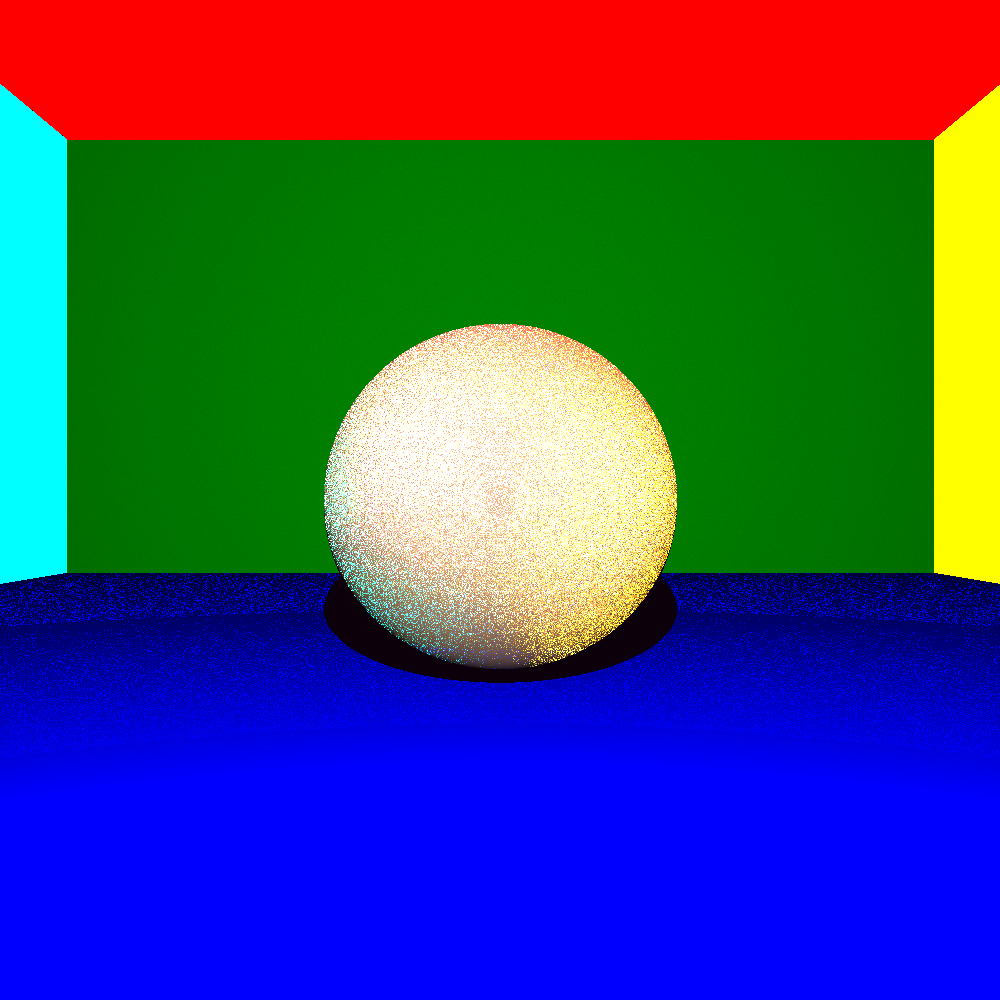
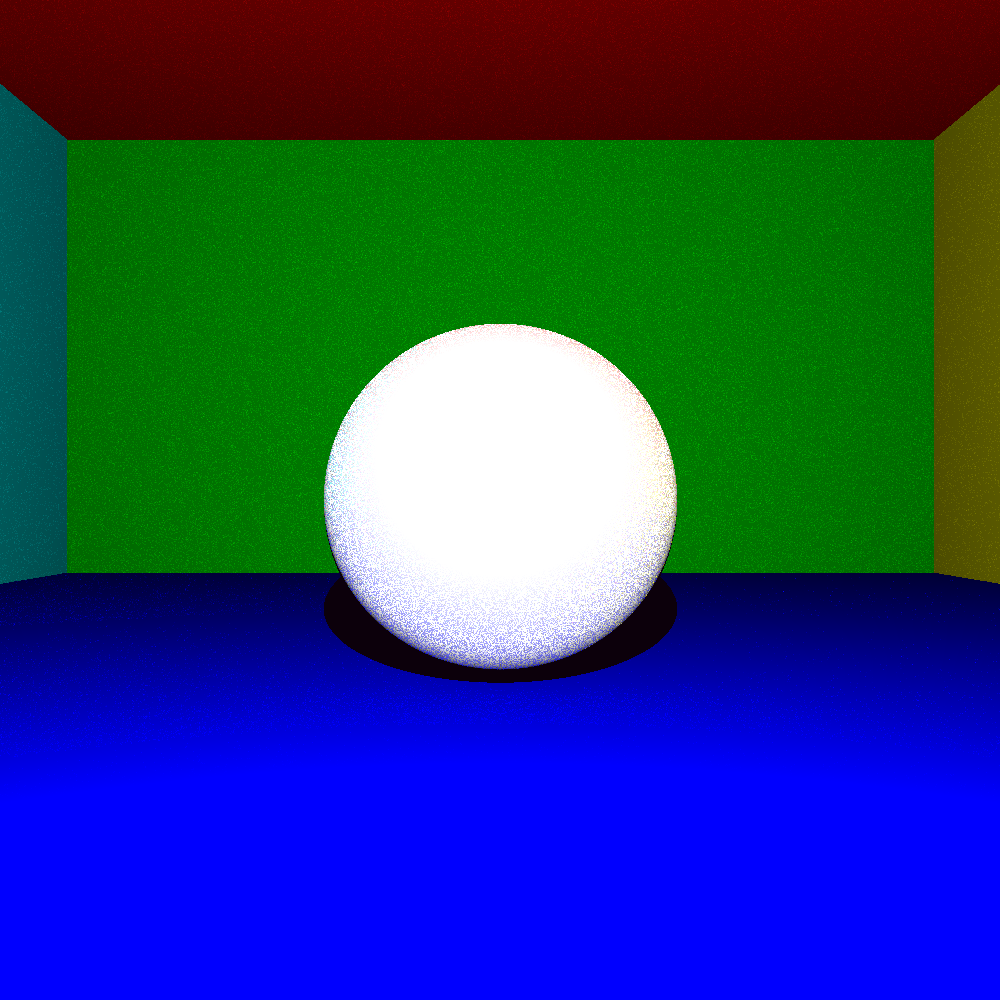
Indirect lighting

Changed region(s): [[0.0, 0.0, 1.0, 0.775]]

diff --git a/src/main.rs b/src/main.rs
@@ -15,16 +15,15 @@ use vect::*;
 const EPSILON: f64 = 0.0001;
 const IMAGE_WIDTH: u32 = 1000;
 const IMAGE_HEIGTH: u32 = 1000;
-const NRAYS: u32 = 100;
+const NRAYS: u32 = 2;
 const DEPTH: u8 = 4;
-const N_THREADS: usize = 8;
+const N_THREADS: usize = 4;
 
 fn main() {
     let cam = camera::new(
         Vect(0f64, 2f64, 0f64), // Position
         Vect(0f64, 0f64, 1f64), // Direction
         Vect(0f64, 1f64, 0f64), // "Up" Direction
-        0.8f64,                 // In-world distance from position to screen
         PI / 3f64,              // Viewing angle
     );
     let mut scene: Scene = (Vec::new(), Vec::new());
@@ -32,50 +31,43 @@ fn main() {
     scene.0.push(Box::new(sphere::Sphere {
         pos: Vect(0f64, 2f64, 10f64),
         radius: 2f64,
-        material: Material::Lambertian,
-        albedo: Vect(0.4, 0.25, 0.15),
+        material: Material::Lambertian(Vect(1.0, 1.0, 1.0)),
     }));
     //Floor
     scene.0.push(Box::new(plane::Plane {
         point: Vect(0.0, 0f64, 0.0),
         normal: Vect(0f64, 1f64, 0f64).normalise(),
-        albedo: Vect(0f64, 0f64, 1f64),
-        material: Material::Lambertian,
+        material: Material::Lambertian(Vect(0f64, 0f64, 1f64)),
     }));
     //Back wall
     scene.0.push(Box::new(plane::Plane {
         point: Vect(0.0, 0f64, 24f64),
         normal: Vect(0f64, 0f64, -1f64).normalise(),
-        albedo: Vect(0f64, 1f64, 0f64),
-        material: Material::Lambertian,
+        material: Material::Lambertian(Vect(0f64, 1f64, 0f64)),
     }));
     //Ceiling
     scene.0.push(Box::new(plane::Plane {
         point: Vect(0.0, 12f64, 0f64),
         normal: Vect(0f64, -1f64, 0f64).normalise(),
-        albedo: Vect(255f64, 0f64, 0f64),
-        material: Material::Lambertian,
+        material: Material::Lambertian(Vect(1f64, 0f64, 0f64)),
     }));
     //Front wall
     scene.0.push(Box::new(plane::Plane {
         point: Vect(0.0, 0f64, -12f64),
         normal: Vect(0f64, 0f64, 1f64).normalise(),
-        albedo: Vect(255.0, 0f64, 255.0),
-        material: Material::Lambertian,
+        material: Material::Lambertian(Vect(1.0, 0f64, 1.0)),
     }));
     //Right wall
     scene.0.push(Box::new(plane::Plane {
         point: Vect(12.0, 0f64, 0f64),
         normal: Vect(-1f64, 0f64, 0f64).normalise(),
-        albedo: Vect(255f64, 255f64, 0f64),
-        material: Material::Lambertian,
+        material: Material::Lambertian(Vect(1.0, 1.0, 0.0)),
     }));
     //Left wall
     scene.0.push(Box::new(plane::Plane {
         point: Vect(-12f64, 0f64, 20f64),
         normal: Vect(1f64, 0f64, 0f64).normalise(),
-        albedo: Vect(0f64, 255f64, 255f64),
-        material: Material::Lambertian,
+        material: Material::Lambertian(Vect(0.0, 1.0, 1.0)),
     }));
     //Light
     scene.1.push(Box::new(light::Pointlight {

diff --git a/src/camera.rs b/src/camera.rs
@@ -11,34 +11,34 @@ const GAMMA: f64 = 0.45;
 
 /// The Camera type is a product type that contains the position of the
 /// camera, the direction its facing, the direction that's "up" from the
-/// camera's point of view, the distance from the camera to the screen and the
-/// viewing angle of the camera, which determines the screen size in the scene
-/// together with the focal distance.
-///               pos   dir   up    dist angle
-pub struct Camera(Vect, Vect, Vect, f64, f64);
+/// camera's point of view and the
+/// viewing angle of the camera, which determines how much of the world the
+/// camera sees.
+///               pos   dir   up    angle
+pub struct Camera(Vect, Vect, Vect, f64);
 
 /// Create a new camera with the given position, direction,
 /// up direction and angle. Enforces that dot(dir, up) == 0,
 /// and norms pos dir and up just to be safe.
-pub fn new(pos: Vect, dir: Vect, up: Vect, dist: f64, angle: f64) -> Camera {
+pub fn new(pos: Vect, dir: Vect, up: Vect, angle: f64) -> Camera {
     if dir.dot(&up) != 0f64 {
         panic!(
             "Tried to create camera with non-perpendicular
         facing and up directions"
         );
     }
-    Camera(pos, dir.normalise(), up.normalise(), dist, angle)
+    Camera(pos, dir.normalise(), up.normalise(), angle)
 }
 
 impl Camera {
     pub fn rays(&self) -> RayIter {
-        let Camera(pos, dir, up, dist, angle) = self;
-        let screen_width = 2f64 * dist * (angle / 2f64).tan();
+        let Camera(pos, dir, up, angle) = self;
+        let screen_width = 2f64 * (angle / 2f64).tan();
         let screen_heigth = screen_width * (crate::IMAGE_HEIGTH as f64 / crate::IMAGE_WIDTH as f64);
         let left = dir.cross(&up).normalise();
         RayIter {
             screen_top_left: pos
-                .add(&dir.scalar_mul(&dist))
+                .add(&dir)
                 .add(&up.scalar_mul(&(screen_heigth / 2f64)))
                 .add(&left.scalar_mul(&(screen_width / 2f64))),
             camera_pos: *pos,
@@ -56,14 +56,14 @@ impl Camera {
     pub fn render(&self, scene: Arc<Scene>, nrays: u32, depth: u8) -> RgbImage {
         println!("Starting render");
         let t0 = Instant::now();
-        let mut res = RgbImage::new(crate::IMAGE_WIDTH, crate::IMAGE_HEIGTH);
         let (tx, rx) = mpsc::channel();
         self.render_rays(self.rays(), scene, nrays, depth, tx);
         println!("finished tracing");
+        println!("tracing complete in {}ms", t0.elapsed().as_millis());
+        let mut res = RgbImage::new(crate::IMAGE_WIDTH, crate::IMAGE_HEIGTH);
         for ((row, col), (r, g, b)) in rx.iter() {
             res.put_pixel(col, row, Rgb([r, g, b]));
         }
-        println!("Render complete in {}ms", t0.elapsed().as_millis());
         res
     }
 

diff --git a/src/ray.rs b/src/ray.rs
@@ -1,4 +1,3 @@
-use crate::geometry::Geometry;
 use crate::typedefs::{Intersection, Material, Scene};
 use crate::vect::*;
 use rand::prelude::*;
@@ -28,7 +27,7 @@ impl Ray {
             pos: zero(),
         };
         let mut closest_dsquared = std::f64::INFINITY;
-        let mut closest_geo: &std::boxed::Box<dyn Geometry + Send + Sync> = &scene.0[0];
+        let mut closest_geo_material: Material = Material::Lambertian(zero());
         for geo in &scene.0 {
             let intersection = geo.intersect(&self);
             if intersection.normal != zero() {
@@ -36,25 +35,24 @@ impl Ray {
                 if dsquared < closest_dsquared {
                     closest_dsquared = dsquared;
                     closest_intersection = intersection;
-                    closest_geo = geo;
+                    closest_geo_material = geo.get_material();
                 }
             }
         }
         if closest_dsquared < std::f64::INFINITY {
-            let mut tot_light = 0.0;
-            for light in &scene.1 {
-                tot_light += light.get_contribution(&closest_intersection, &scene);
-            }
-            if tot_light <= 0.1 {
-                return Vect(255.0, 0.0, 250.0);
-            }
-            let geo_alb = closest_geo.get_albedo(&closest_intersection.pos);
-            let l0 = geo_alb.scalar_mul(&tot_light);
-            match closest_geo.get_material() {
-                Material::Lambertian => {
+            match closest_geo_material {
+                Material::Lambertian(albedo) => {
+                    let mut tot_light = 0.0;
+                    for light in &scene.1 {
+                        tot_light += light.get_contribution(&closest_intersection, &scene);
+                    }
+                    if tot_light <= 0.1 {
+                        return Vect(255.0, 0.0, 250.0);
+                    }
+                    let l0 = albedo.scalar_mul(&tot_light);
                     let rand_dir = box_muller_random_vector(&closest_intersection.normal);
                     let w1 = Ray(closest_intersection.pos, rand_dir);
-                    return l0.add(&geo_alb.pointwise_mul(&w1.colour(scene, depth - 1)));
+                    return l0.add(&albedo.pointwise_mul(&w1.colour(scene, depth - 1)));
                 }
             }
         }
@@ -63,9 +61,8 @@ impl Ray {
 }
 
 fn box_muller_random_vector(normal: &Vect) -> Vect {
-    let mut rng = rand::thread_rng();
-    let r1: f64 = rng.gen();
-    let r2: f64 = rng.gen();
+    let r1: f64 = random();
+    let r2: f64 = random();
     let sqrt1mr2 = (1f64 - r2).sqrt();
     let twopir1 = PI2 * r1;
     let x = (twopir1.cos()) * sqrt1mr2;

diff --git a/src/sphere.rs b/src/sphere.rs
@@ -7,7 +7,6 @@ pub struct Sphere {
     pub pos: Vect,
     pub radius: f64,
     pub material: Material,
-    pub albedo: Vect,
 }
 
 impl Geometry for Sphere {
@@ -61,9 +60,6 @@ impl Geometry for Sphere {
         };
     }
 
-    fn get_albedo(&self, _point: &Vect) -> Vect {
-        self.albedo
-    }
     fn get_material(&self) -> Material {
         self.material
     }
@@ -76,8 +72,7 @@ fn sphere_intersection_test() {
     let s = Sphere {
         pos: Vect(10f64, 0f64, 0f64),
         radius: 5f64,
-        material: Material::Lambertian,
-        albedo: Vect(0.0, 0.0, 0.0),
+        material: Material::Lambertian(zero()),
     };
     assert_ne!(s.intersect(&r1).normal, zero());
     assert_eq!(s.intersect(&r2).normal, zero());

diff --git a/src/plane.rs b/src/plane.rs
@@ -6,7 +6,6 @@ use crate::vect::*;
 pub struct Plane {
     pub point: Vect,
     pub normal: Vect,
-    pub albedo: Vect,
     pub material: Material,
 }
 
@@ -46,9 +45,6 @@ impl Geometry for Plane {
                 normal: self.normal.scalar_mul(&-1f64),
             }
         }
-    }
-    fn get_albedo(&self, _point: &Vect) -> Vect {
-        self.albedo
     }
     fn get_material(&self) -> Material {
         self.material

diff --git a/src/geometry.rs b/src/geometry.rs
@@ -1,9 +1,7 @@
 use crate::ray::Ray;
 use crate::typedefs::*;
-use crate::vect::*;
 
 pub trait Geometry {
     fn intersect(&self, ray: &Ray) -> Intersection;
     fn get_material(&self) -> Material;
-    fn get_albedo(&self, point: &Vect) -> Vect;
 }

diff --git a/src/typedefs.rs b/src/typedefs.rs
@@ -9,7 +9,7 @@ pub struct Intersection {
 
 #[derive(Copy, Clone)]
 pub enum Material {
-    Lambertian,
+    Lambertian(Vect), //Albedo
 }
 
 pub type Scene = (
